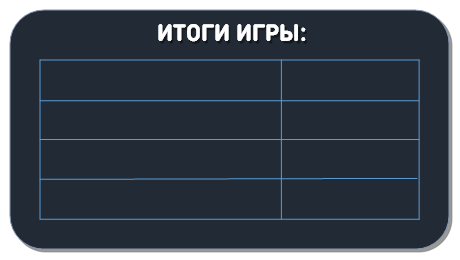
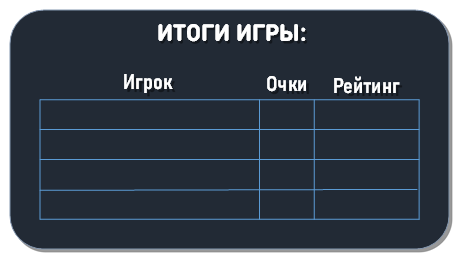
123

Changed region(s): [[0.0609, 0.2154, 0.913, 0.8308]]

diff --git a/index.js b/index.js
@@ -783,7 +783,7 @@ game = {
 	nextPlayerIndex:0,
 	tableId:0,
 	tableStr:'',
-	PLAYER_INDEX_TO_PCARD:[0,0,0,0],
+	PLAYER_INDEX_TO_PCARD:[0,0,0,0],//это индексы серверного порядка
 	
 	async activate(params={}) {
 
@@ -836,9 +836,16 @@ game = {
 		const state=await fbs_once(this.tableStr+'/state')||{}
 		if (state.passing || state.playing){
 			const admPlayers=await fbs_once(this.tableStr+'/admPlayers')
-			for (let p=0;p<NUM_OF_PLAYERS;p++){			
+			for (let p=0;p<NUM_OF_PLAYERS;p++){	
+				const uid=admPlayers[p]
 				const pcard=objects.pCards[p]
-				pcard.tName.text=admPlayers[p]
+				pcard.ai=+uid.includes('aiPlayer')
+				if (pcard.ai){
+					pcard.tName.text=uid
+					pcard.tRating.text=1400
+					pcard.photo.set_texture(assets.aiAvatarImg)					
+				}else
+					players_cache.update(uid)
 			}
 		}
 	},
@@ -970,12 +977,13 @@ game = {
 			pcard.score=0
 			pcard.tScore.text=0
 			pcard.cards=[]
+			pcard.ratingChange=0
 			pcard.ai=+playerUID.includes('aiPlayer')
 			if (pcard.ai){
 				pcard.tName.text='ai_'+p
 				pcard.photo.set_texture(assets.aiAvatarImg)
 			} else
-				players_cache.update(playerUID)
+				players_cache.update(playerUID,{rating:1})
 									
 			//заполняем картами
 			for (let c=0;c<HAND_SIZE;c++){				
@@ -1126,9 +1134,13 @@ game = {
 		
 		objects.allCardsCont.sortChildren();
 		
+		//на всякий случай убираем кнопку
+		objects.send_exch_cards_btn.visible=false
+		
 		//проверяем появление ии после выбора карта
+		const t=this
 		data.ai.forEach((ai,i)=>{
-			objects.pCards[i].ai=ai
+			t.PLAYER_INDEX_TO_PCARD[i].ai=ai
 		})
 			
 		//показываем кто ходит
@@ -1350,12 +1362,18 @@ game = {
 					}
 				}
 			}
+			
+			//меняем мой рейтинг
+			if (this.myPcard.ratingChange!==0&&!this.myPcard.ai){
+				this.setMyRating(my_data.rating+this.myPcard.ratingChange)
+			}
+			
 
 			for (let i=0;i<4;i++){
 				const player=objects.pCards[i]
 				objects.resDlgNames[i].text=player.tName.text
 				objects.resDlgScores[i].text=player.score
-				objects.resDlgRatings[i].text=player.ratingChange
+				objects.resDlgRatings[i].text=player.ratingChange||''
 			}
 
 			objects.resDlgCont.visible=true
@@ -1363,6 +1381,13 @@ game = {
 			console.log('игра закончена!!!')
 			fbs.ref(this.tableStr+'/players/'+my_data.uid).set(firebase.database.ServerValue.TIMESTAMP)
 		}
+		
+	},
+	
+	setMyRating(r){
+		
+		my_data.rating=r
+		fbs.ref('players/'+my_data.uid+'/rating').set(my_data.rating)
 		
 	},
 	

diff --git a/hrts_server.js b/hrts_server.js
@@ -292,14 +292,14 @@ class table_class{
 		
 		if (data.e===EVENTS.PASSING_FIN&&data.token===this.passingToken){
 			const player=this.players.find(p=>p.uid===data.uid)
-			if(player) player?.passingResolver(data)
+			if(player) player?.passingResolver?.(data)
 			
 		}
 
 		//move - это индекс карты
 		if (data.e===EVENTS.MOVE_FROM_PLAYER&&this.playerToMoveUID===data.uid){
 			const player=this.players.find(p=>p.uid===data.uid)
-			if(player) player?.moveResolver({cardIndex:data.cardIndex})
+			if(player) player?.moveResolver?.({cardIndex:data.cardIndex})
 		}
 			
 	}
@@ -314,8 +314,7 @@ class table_class{
 				console.log('нет данных об игроках')
 				await new Promise(r => setTimeout(r, 5000))
 				continue
-			}		
-			
+			}			
 			
 			//удаляем старых
 			const tm=Date.now()
@@ -351,8 +350,6 @@ class table_class{
 				this.players[2].uid,
 				this.players[3].uid
 			])
-			
-			
 
 			//случайный сид для перемешивания колоды
 			const seed=generateRandomBase64(5)
@@ -386,12 +383,6 @@ class table_class{
 				],
 				seed
 			})
-			
-			
-			
-			//fbs.ref(`table${this.id}/state1`).set('on')
-			
-			//await new Promise(r => setTimeout(r, 2000))
 
 			//ждем выбор карт от игроков для обмена
 			console.log('ждем выбор карт от игроков для обмена')
